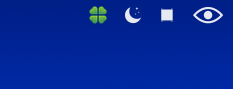
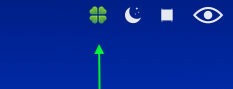
Add screenshots to README and update image
Inserted three project screenshots into the README for better visual documentation. Updated Screenshot-1.png in the Icons directory.

Changed region(s): [[0.3906, 0.4944, 0.4506, 1.0]]

diff --git a/README.md b/README.md
@@ -1,2 +1,4 @@
 # Clover Buildme
 
+<img src="Icons/Screenshot-1.png" alt="Github Project" style="width:25%;"><img src="Icons/Screenshot-2.png" alt="Github Project" style="width:25%;"><img src="Icons/Screenshot-3.png" alt="Github Project" style="width:25%;">
+
